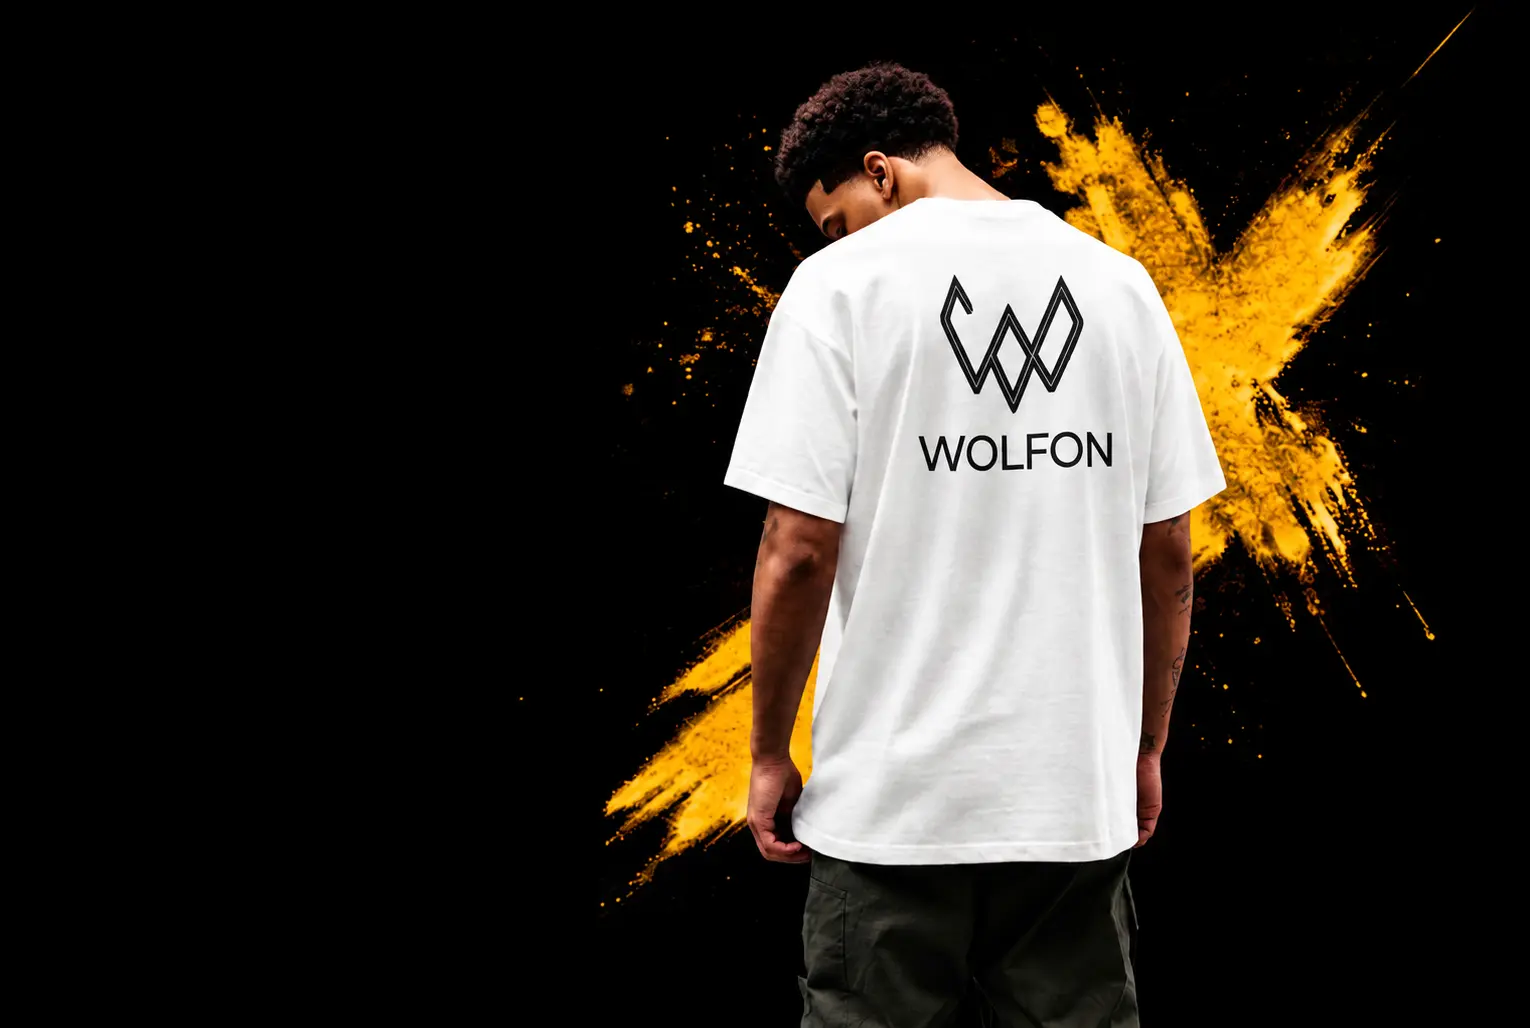
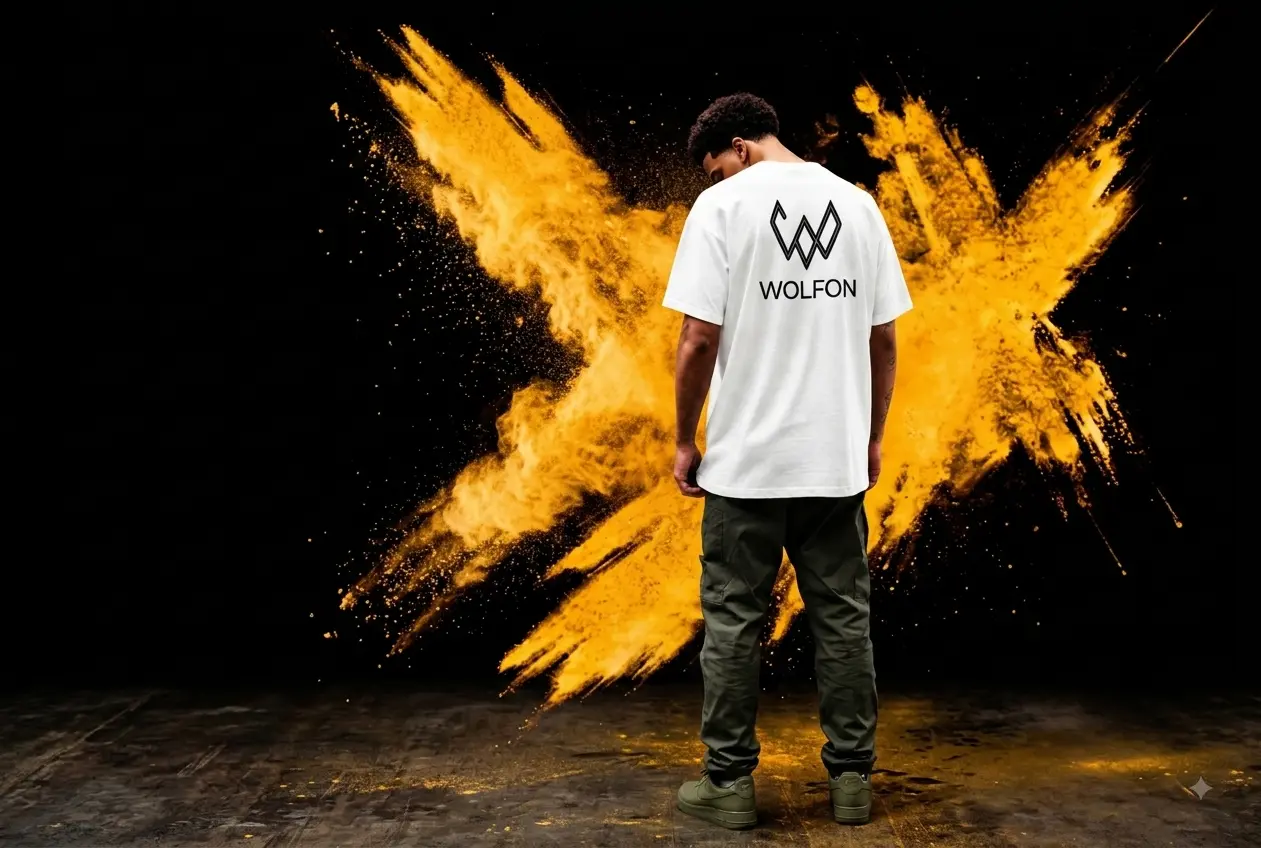
hero updated

diff --git a/src/components/Hero.tsx b/src/components/Hero.tsx
@@ -28,7 +28,7 @@ export const Hero: React.FC<HeroProps> = ({ onExplore, onOpenB2B }) => {
         <img
           src={slide.bgImage}
           alt="Wolfon Premium Apparel Collection"
-          className="w-full h-full object-cover object-center filter brightness-75 contrast-125 transition-all duration-1000 ease-in-out scale-105"
+          className="w-full h-full object-cover object-top filter brightness-75 contrast-125 transition-all duration-1000 ease-in-out scale-105"
           referrerPolicy="no-referrer"
         />
         {/* Dark Overlays for text legibility and editorial mood */}
